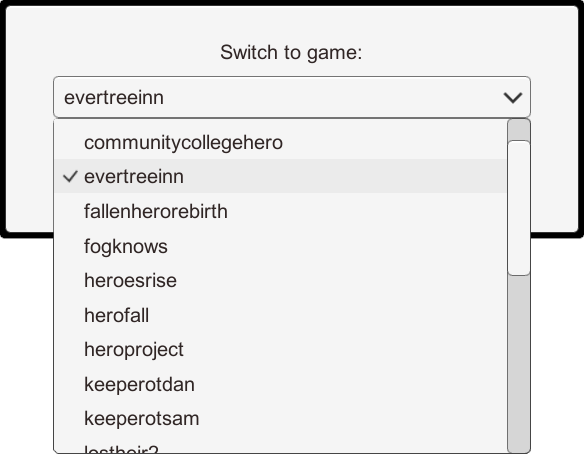
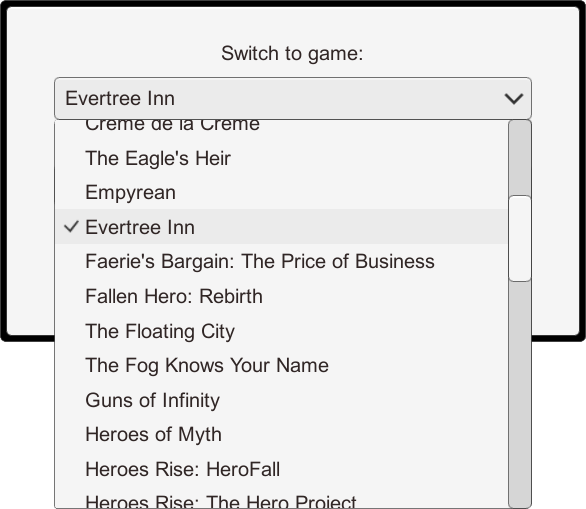
Updated README images

Changed region(s): [[0.0, 0.0, 1.0, 1.0], [0.0925, 0.4317, 0.7397, 0.8018], [0.0925, 0.37, 0.3082, 0.4009]]

diff --git a/.github/README.md b/.github/README.md
@@ -13,7 +13,7 @@ The project is created with *Unity 5.6.2f1*, so it can be modified on pretty muc
 - **Game Save Directory:** You first need to select the desired Choice of Game's Steam save directory. Steam save paths have the following format: `{Steam Cloud Save Folder}/{Game ID}`
   - *Steam Cloud Save Folder:* You can find out the location of this directory for each OS [here](https://help.steampowered.com/en/faqs/view/68D2-35AB-09A9-7678)
   - *Game ID:* You can right click the game's shortcut and find this id in the shortcut's URL as follows: `steam://rungameid/{Game ID}`. Alternatively, you can open the game's Store page in a web browser and find the id in the URL
-  - To instruct Steam to generate a newly installed game's save directory, you must open the game and either click the *Restart* button or progress through the story for at least one page. Rarely, some games may store their save files in different directories (e.g. *Heroes Rise* trilogy stores all its save files in the first book's save directory, so you have to choose that directory for each game of that trilogy)
+  - To instruct Steam to generate a newly installed game's save directory, you must open the game and either click the *Restart* button or progress through the story for at least one page. Rarely, some games may store their save files in a shared directory (e.g. *Heroes Rise* trilogy stores all its save files in the first book's save directory, so you have to choose that directory for each game of that trilogy)
 - **CoG Save Storage:** Saves generated by this application will be stored at this location. You don't have to give different storage locations for different games because the application automatically groups saves per game
 - **Manual Saves:** You can save the game manually at any time by clicking the **Save** button. To change the save's name, you can either type the name into the input field or click the dropdown button and pick one of the previous manual saves' name
 - **Automated Saves:** The game is automatically saved as you progress through the story (i.e. whenever you progress to the next page of the game). This way, you can undo your latest choices. Maximum number of automated saves can be configured via "**# of Saves**". Once this number is reached, oldest automated saves will be overwritten with the newest automated saves
@@ -25,10 +25,12 @@ The project is created with *Unity 5.6.2f1*, so it can be modified on pretty muc
 
 ![Screenshot](Images/SaveEditor.png)
 
-- To switch between previously explored Choice of Games (without having to change *Game Save Directory* manually at each time), you can click the current game's title ("*- communitycollegehero -*" in the first screenshot) and choose the target game from the list. Every time this application is launched, it tries to populate this list automatically by checking the contents of the Steam save directory. Thus, you probably won't need to enter *Game Save Directory* manually for a game at all, the game will likely be explored automatically by the application at startup
+- To switch between previously explored Choice of Games (without having to change *Game Save Directory* manually at each time), you can click the current game's title ("*- Evertree Inn (Default) -*" in the first screenshot) and choose the target game from the list.
+  
+  Every time this application is launched, it tries to populate this list automatically by checking the contents of the Steam save directory. Thus, you probably won't need to enter *Game Save Directory* manually for a game at all, the game will likely be explored automatically by the application at startup
 
 ![Screenshot](Images/GameSelectionDialog.png)
 
-- You can create different playthroughs for each game. Each playthrough will have its own save files. To create a new playthrough or switch between playthroughs, you can click the current game's title ("*- communitycollegehero -*" in the first screenshot) and choose the desired playthrough from the list
+- You can create different playthroughs for each game. Each playthrough will have its own save files. To create a new playthrough or switch between playthroughs, you can click the current game's title ("*- Evertree Inn (Default) -*" in the first screenshot) and choose the desired playthrough from the list
 
 ![Screenshot](Images/PlaythroughSelectionDialog.png)
